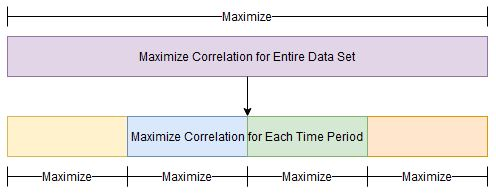
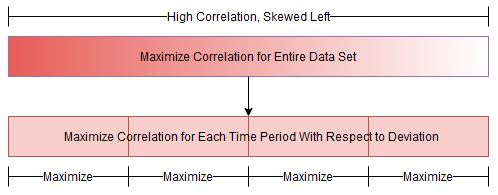
Updates

diff --git a/tuneta/tune_ta.py b/tuneta/tune_ta.py
@@ -14,39 +14,59 @@ from tabulate import tabulate
 from tuneta.optimize import col_name
 
 
-
 class TuneTA():
 
     def __init__(self, n_jobs=multiprocessing.cpu_count() - 1, verbose=False):
-        self.result = []
         self.fitted = []
         self.n_jobs = n_jobs
         self.verbose = verbose
 
-    def fit(self, X, y, trials=5, indicators=indicators, ranges=ranges, tune_series=tune_series,
-            tune_params=tune_params, spearman=True, weights=None, early_stop=99999, split=None):
-        self.fitted = []
+    def fit(self, X, y, trials=5, indicators=None, ranges=None,
+        spearman=True, weights=None, early_stop=99999, split=None):
+        """
+        Optimize indicator parameters to maximize correlation
+        :param X: Historical dataset
+        :param y: Target used to measure correlation.  Can be a subset index of X
+        :param trials: Number of optimization trials per indicator set
+        :param indicators: List of indicators to optimize
+        :param ranges: Parameter search space
+        :param spearman: Perform spearman vs pearson correlation
+        :param weights: Optional weights sharing the same index as y
+        :param early_stop: Max number of optimization trials before stopping
+        :param split: Index cut points defining time periods
+        """
+
+        self.fitted = []  # List containing each indicator completed study
         X.columns = X.columns.str.lower()  # columns must be lower case
+        pool = ProcessPool(nodes=self.n_jobs)  # Set parallel cores
 
-        pool = ProcessPool(nodes=self.n_jobs)
-
-        for low, high in ranges:
-            if low <=1:
+        # Create textual representation of function in Optuna format
+        # Example: 'tta.RSI(X.close, length=trial.suggest_int(\'timeperiod1\', 2, 1500))'
+        # Utilizes the signature of the indicator (ie user parameters) if available
+        # TTA uses help docstrings as signature is not available in C bindings
+        # Parameters contained in config.py are tuned
+        # TODO: Add fast-ta
+        for low, high in ranges:  # Iterate user defined search space ranges
+            if low <= 1:
                 raise ValueError("Range low must be > 1")
             if high >= len(X):
                 raise ValueError(f"Range high:{high} must be > length of X:{len(X)}")
-            for ind in indicators:
-                idx = 0
+            for ind in indicators:  # Iterate indicators per range
+                idx = 0  # Index column to optimize if indicator returns dataframe
                 if ":" in ind:
                     idx = int(ind.split(":")[1])
                     ind = ind.split(":")[0]
                 fn = f"{ind}("
+                # If TTA indicator, use doc strings for lack of better way to
+                # get indicator arguments (C binding)
                 if ind[0:3] == "tta":
                     usage = eval(f"{ind}.__doc__").split(")")[0].split("(")[1]
                     params = re.sub('[^0-9a-zA-Z_\s]', '', usage).split()
+                # Pandas-TA and FinTA both can be inspected for parameters
                 else:
                     sig = inspect.signature(eval(ind))
                     params = sig.parameters.values()
+                # Format function string
                 for param in params:
                     param = re.split(':|=', str(param))[0].strip()
                     if param == "open_":
@@ -62,9 +82,85 @@ class TuneTA():
                     elif param in tune_params:
                         fn += f"{param}=trial.suggest_int('{param}', {low}, {high}), "
                 fn += ")"
-                self.fitted.append(pool.apipe(Optimize(function=fn, n_trials=trials, spearman=spearman).fit, X, y,
-                                              idx=idx, verbose=self.verbose, weights=weights, early_stop=early_stop, lookback=max(max(ranges)), split=split), )
-        self.fitted = [fit.get() for fit in self.fitted]  # Get results of jobs
+                # Asyncrhonous optimization per indicator
+                self.fitted.append(pool.apipe(Optimize(function=fn, n_trials=trials,
+                    spearman=spearman).fit, X, y, idx=idx, verbose=self.verbose,
+                    weights=weights, early_stop=early_stop, lookback=max(max(ranges)),
+                    split=split), )
+        # Blocking wait to retrieve results
+        self.fitted = [fit.get() for fit in self.fitted]
+
+    def prune(self, top=2, studies=1):
+        """
+        Select most correlated with target, least intercorrelated
+        :param top: Selects top x most correlated with target
+        :param studies: From top x, keep y least intercorelated
+        :return:
+        """
+
+        # Error checking
+        if top > len(self.fitted) or studies > len(self.fitted):
+            raise ValueError("Cannot prune because top or studies is >= tuned indicators")
+            return
+        if top < studies:
+            raise ValueError(f"top {top} must be >= studies {studies}")
+
+        # Create fitness array that maps to the correlation of each indicator study
+        fitness = []
+        for t in self.fitted:
+            if t.split is None:
+                fitness.append(t.study.best_trial.value)
+            else:
+                fitness.append(sum(t.study.trials[t.study.top_trial].values))
+        fitness = np.array(fitness)
+
+        # Select top x indices with most correlation to target
+        fitness = fitness.argsort()[::-1][:top]  # Get sorted fitness indices of HOF
+
+        # Gets best trial feature of each study in HOF
+        features = []
+        top_studies = [self.fitted[i] for i in fitness]  # Get fitness mapped studies
+        for study in top_studies:
+            features.append(study.res_y) # Get indicator values stored from optimization
+        features = np.array(features)  # Features of HOF studies / actual indicator results
+
+        # Correlation of HOF features
+        # Create correlation table of features
+        eval = np.apply_along_axis(rankdata, 1, features)
+        with np.errstate(divide='ignore', invalid='ignore'):
+            correlations = np.abs(np.corrcoef(eval))
+        np.fill_diagonal(correlations, 0.)
+
+        # Iteratively removes least fit individual of most correlated pairs of studies
+        # IOW, finds most correlated pairs, removes lest correlated to target until x studies
+        components = list(range(top))
+        indices = list(range(top))
+        while len(components) > studies:
+            most_correlated = np.unravel_index(np.argmax(correlations), correlations.shape)
+            worst = max(most_correlated)
+            components.pop(worst)
+            indices.remove(worst)
+            correlations = correlations[:, indices][indices, :]
+            indices = list(range(len(components)))
+
+        # Save only fitted studies (overwriting all studies)
+        self.fitted = [self.fitted[i] for i in fitness[components]]
+
+    def transform(self, X):
+        """
+        Given X, create features of fitted studies
+        :param X: Dataset with features used to create fitted studies
+        :return:
+        """
+        X.columns = X.columns.str.lower()  # columns must be lower case
+        pool = ProcessPool(nodes=self.n_jobs)  # Number of jobs
+        self.result = []
+        # Iterate fitted studies and calculate TA with fitted parameter set
+        for ind in self.fitted:
+            self.result.append(pool.apipe(ind.transform, X))
+        self.result = [res.get() for res in self.result]
+        res = pd.concat(self.result, axis=1)
+        return res
 
     def report(self, target_corr=True, features_corr=True):
         fns = []
@@ -90,74 +186,3 @@ class TuneTA():
         if features_corr:
             print("\nFeature Correlation:\n")
             print(tabulate(correlations, headers=correlations.columns, tablefmt="simple"))
-
-
-    def prune(self, top=2, studies=1):
-
-        if top > len(self.fitted) or studies > len(self.fitted):
-            print("Cannot prune because top or studies is >= tuned indicators")
-            return
-        if top < studies:
-            raise ValueError(f"top {top} must be >= studies {studies}")
-
-        fitness = []
-        for t in self.fitted:
-            if t.split is None:
-                fitness.append(t.study.best_trial.value)  # get fitness of study
-            else:
-                fitness.append(sum(t.study.trials[t.study.top_trial].values))  # get fitness of study
-        fitness = np.array(fitness)  # Fitness of each fitted study
-
-        fitness = fitness.argsort()[::-1][:top]  # Get sorted fitness indices of HOF
-
-        # Gets best trial feature of each study in HOF
-        features = []
-        top_studies = [self.fitted[i] for i in fitness]  # Get HOF studies
-        for study in top_studies:
-            features.append(study.res_y)
-        features = np.array(features)  # Features of HOF studies
-
-        # Correlation of HOF features
-        eval = np.apply_along_axis(rankdata, 1, features)
-        with np.errstate(divide='ignore', invalid='ignore'):
-            correlations = np.abs(np.corrcoef(eval))
-        np.fill_diagonal(correlations, 0.)
-
-        # Iteratively remove least fit individual of most correlated pairs of studies
-        components = list(range(top))
-        indices = list(range(top))
-        while len(components) > studies:
-            most_correlated = np.unravel_index(np.argmax(correlations), correlations.shape)
-            worst = max(most_correlated)
-            components.pop(worst)
-            indices.remove(worst)
-            correlations = correlations[:, indices][indices, :]
-            indices = list(range(len(components)))
-
-        self.fitted = [self.fitted[i] for i in fitness[components]]
-
-    def transform(self, X):
-        X.columns = X.columns.str.lower()  # columns must be lower case
-        pool = ProcessPool(nodes=self.n_jobs)
-        self.result = []
-        for ind in self.fitted:
-            self.result.append(pool.apipe(ind.transform, X))
-        self.result = [res.get() for res in self.result]
-        res = pd.concat(self.result, axis=1)
-        return res
-
-
-if __name__ == "__main__":
-    import joblib
-    X, y = joblib.load('state/Xy.job')
-
-    inds = TuneTA(verbose=True)
-    inds.fit(X, y, indicators=['tta.BBANDS:1', 'fta.SMA', 'pta.sma', 'tta.RSI', 'tta.RSI', 'pta.kst'], ranges=[(2, 100)], trials=5)
-    # inds.fit(X, y, indicators=['pta.kst'], ranges=[(2, 100)], trials=5)
-    inds.report()
-    inds.prune(top=5, studies=4)
-    inds.report()
-    features = inds.transform(X)
-    X_train = pd.concat([X, features], axis=1)
-    print("done")
-

diff --git a/tuneta/config.py b/tuneta/config.py
@@ -1,9 +1,3 @@
-# Search ranges
-ranges = [(1, 90), (91, 270)]
-
-# Dont use ichimoku or DPO (data leakage)
-indicators = ["pta.rsi", "pta.mom", "pta.macd"]
-
 # Series data
 tune_series = ['open', 'high', 'low', 'close', 'volume']
 
@@ -22,18 +16,3 @@ tune_params = ['width', 'fast', 'slow', 'signal', 'length', 'short', 'max_lookba
                'minperiod', 'maxperiod', 'acceleration', 'accelerationlong', 'accelerationshort', 'signalperiod',
                'slowperiod', 'signalperiod', 'fastperiod', 'fastk_period', 'slowk_period', 'slowd_period',
                'fastd_period']
-
-# tune_params = ['th']
-
-# Index of column to maximize if indicator returns multiple
-tune_column = {
-    "pta.aobv": 5,
-    "pta.thermo": 2,
-    "pta.vp": 5,
-    "pta.bbands": 3,
-    "pta.aroon": 2,
-    "pta.macd": 2,
-}
-
-
-

diff --git a/README.md b/README.md
@@ -46,7 +46,7 @@ The following chart shows that of the top 10 strongest correlated indicators, 5 
 
 ### Multi-Time Period Optimization
 
-TuneTA supports the optimization of indicator parameters over an entire historical dataset or in multiple time periods.  Technical indicators may not perform consistently across larger time frames due to market shift.  Optimizing technical indicators over distinct time periods can help avoid correlation skew while providing insight into inconsistent performance.  TuneTA uses multi-objective optimization (pareto optimal) to maximize correlation in each time period with respect to deviation.
+TuneTA supports the optimization of parameters over an entire dataset or split into multiple time periods.  Technical indicators may not perform consistently across larger time frames due to market fluctuation.  Optimizing technical indicators over distinct time periods can help avoid correlation skew while providing insight into inconsistent performance.  TuneTA uses multi-objective optimization (pareto optimal) to maximize correlation in each time period with respect to deviation.
 
 <p align="center">
   <a href="https://github.com/jmrichardson/tuneta">
